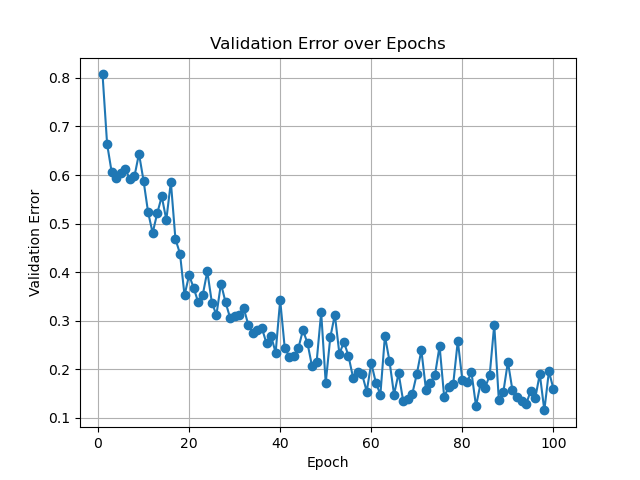
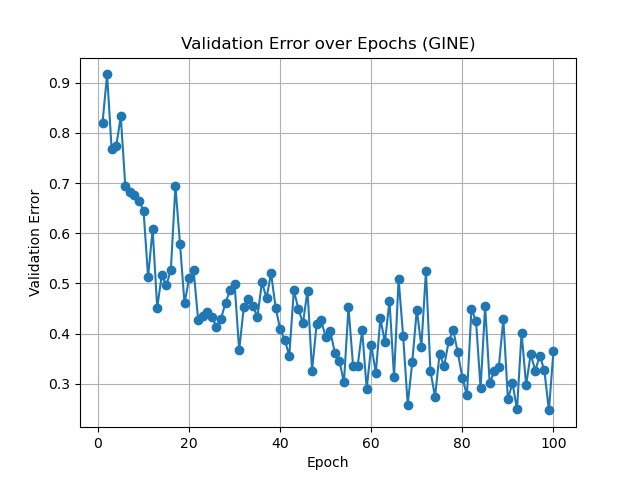
update model resuts

diff --git a/leiden_Sage_train.py b/leiden_Sage_train.py
@@ -1,11 +1,14 @@
+
 import os
+import random
+import json
+import glob
 import torch
+import numpy as np
 import torch.nn.functional as F
 import matplotlib.pyplot as plt
-import random
-import numpy as np
 from torch_geometric.loader import DataLoader
-from torch_geometric.nn import GINEConv,BatchNorm
+from torch_geometric.nn import SAGEConv, BatchNorm
 from datasets.scenes_cluster import ScenesGCNDataset
 
 # ------------------- Hyperparameters -------------------
@@ -42,59 +45,31 @@ val_loader   = DataLoader(val_ds, batch_size=BATCH_SIZE)
 test_loader  = DataLoader(test_ds, batch_size=BATCH_SIZE)
 
 # ------------------- Model Definition -------------------
-class GINENet(torch.nn.Module):
-    def __init__(self, in_feats, hidden_feats, num_classes, dropout=0.5):
+class SageNet(torch.nn.Module):
+    def __init__(self, in_feats, hidden_feats, num_classes, dropout=DROPOUT):
         super().__init__()
-        # Layer 1 MLP → GINEConv → BatchNorm
-        self.mlp1 = torch.nn.Sequential(
-            torch.nn.Linear(in_feats, hidden_feats),
-            torch.nn.ReLU(),
-            torch.nn.Linear(hidden_feats, hidden_feats),
-        )
-        self.conv1 = GINEConv(self.mlp1, train_eps=True, edge_dim=1)
+        # Three-layer GraphSAGE with BatchNorm
+        self.conv1 = SAGEConv(in_feats, hidden_feats)
         self.bn1   = BatchNorm(hidden_feats)
-
-        # Layer 2 MLP → GINEConv → BatchNorm
-        self.mlp2 = torch.nn.Sequential(
-            torch.nn.Linear(hidden_feats, hidden_feats),
-            torch.nn.ReLU(),
-            torch.nn.Linear(hidden_feats, hidden_feats),
-        )
-        self.conv2 = GINEConv(self.mlp2, train_eps=True, edge_dim=1)
+        self.conv2 = SAGEConv(hidden_feats, hidden_feats)
         self.bn2   = BatchNorm(hidden_feats)
-
-        # Layer 3 MLP → GINEConv (no norm)
-        self.mlp3 = torch.nn.Sequential(
-            torch.nn.Linear(hidden_feats, hidden_feats),
-            torch.nn.ReLU(),
-            torch.nn.Linear(hidden_feats, hidden_feats),
-        )
-        self.conv3 = GINEConv(self.mlp3, train_eps=True, edge_dim=1)
-
-        # Final classifier head
-        self.lin = torch.nn.Linear(hidden_feats, num_classes)
+        self.conv3 = SAGEConv(hidden_feats, num_classes)
         self.dropout = dropout
 
-    def forward(self, x, edge_index, edge_attr):
-        # edge_attr: [E,1]
+    def forward(self, x, edge_index, edge_attr=None):
         # Layer 1
-        h = self.conv1(x, edge_index, edge_attr)
+        h = self.conv1(x, edge_index)
         h = self.bn1(h)
         h = F.relu(h)
         h = F.dropout(h, p=self.dropout, training=self.training)
-
         # Layer 2
-        h = self.conv2(h, edge_index, edge_attr)
+        h = self.conv2(h, edge_index)
         h = self.bn2(h)
         h = F.relu(h)
         h = F.dropout(h, p=self.dropout, training=self.training)
-
-        # Layer 3
-        h = self.conv3(h, edge_index, edge_attr)
-        h = F.relu(h)
-
-        # Classify
-        return F.log_softmax(self.lin(h), dim=1)
+        # Layer 3 (classifier)
+        h = self.conv3(h, edge_index)
+        return F.log_softmax(h, dim=1)
 
 # ------------------- Training -------------------
 device = (
@@ -104,7 +79,7 @@ device = (
             if torch.cuda.is_available()
             else torch.device("cpu")
         )
-model = GINENet(
+model = SageNet(
     in_feats=dataset.num_node_features,
     hidden_feats=HIDDEN,
     num_classes=int(dataset.data.y.max().item()) + 1
@@ -119,7 +94,7 @@ for epoch in range(1, EPOCHS+1):
     for data in train_loader:
         data = data.to(device)
         optimizer.zero_grad()
-        out = model(data.x, data.edge_index, data.edge_attr)
+        out = model(data.x, data.edge_index)
         loss = F.nll_loss(out, data.y)
         loss.backward()
         optimizer.step()
@@ -132,7 +107,7 @@ for epoch in range(1, EPOCHS+1):
     with torch.no_grad():
         for data in val_loader:
             data = data.to(device)
-            out = model(data.x, data.edge_index, data.edge_attr)
+            out = model(data.x, data.edge_index)
             pred = out.argmax(dim=1)
             correct += int((pred == data.y).sum())
             tot += data.num_nodes
@@ -143,14 +118,15 @@ for epoch in range(1, EPOCHS+1):
         print(f"Epoch {epoch:03d}, Train Loss: {train_loss:.4f}, Val Err: {val_err:.4f}")
 
 # ------------------- Plot & Save -------------------
-os.makedirs(RESULT_DIR, exist_ok=True)
+if not os.path.exists(RESULT_DIR):
+    os.makedirs(RESULT_DIR)
 plt.figure()
 plt.plot(range(1, EPOCHS+1), val_errors, marker='o')
 plt.xlabel('Epoch')
 plt.ylabel('Validation Error')
-plt.title('Validation Error over Epochs (GINE)')
+plt.title('Validation Error over Epochs (GraphSAGE)')
 plt.grid(True)
-fig_path = os.path.join(RESULT_DIR, 'gine_val_error.png')
+fig_path = os.path.join(RESULT_DIR, 'sage_val_error.png')
 plt.savefig(fig_path)
 plt.close()
 print(f"Validation error plot saved to {fig_path}")
@@ -161,10 +137,10 @@ correct = tot = 0
 with torch.no_grad():
     for data in test_loader:
         data = data.to(device)
-        out = model(data.x, data.edge_index, data.edge_attr)
+        out = model(data.x, data.edge_index)
         pred = out.argmax(dim=1)
         correct += int((pred == data.y).sum())
         tot += data.num_nodes
 print(f"Test Accuracy: {correct / tot:.4f}")
 
-# Test Accuracy: 0.8135
+# Test Accuracy: 0.9362

diff --git a/leiden_Gcn_train.py b/leiden_Gcn_train.py
@@ -2,12 +2,8 @@ import os
 import torch
 import torch.nn.functional as F
 import matplotlib.pyplot as plt
-import glob
-import networkx as nx
-import igraph as ig
-import leidenalg
-import json
-
+import random
+import numpy as np
 from torch_geometric.loader import DataLoader
 from torch_geometric.nn import GCNConv,BatchNorm
 
@@ -21,9 +17,21 @@ LR = 0.01
 WEIGHT_DECAY = 5e-4
 EPOCHS = 100
 HIDDEN = 64
+DROPOUT = 0.5
 RESULT_DIR = './results'
+SEED = 12345
+
+# ------------------- Seed Control -------------------
+random.seed(SEED)
+np.random.seed(SEED)
+torch.manual_seed(SEED)
+torch.cuda.manual_seed_all(SEED)
+torch.backends.cudnn.deterministic = True
+torch.backends.cudnn.benchmark = False
 
 # ------------------- Prepare dataset -------------------
+
+torch.manual_seed(SEED)
 dataset = ScenesGCNDataset(root=ROOT, resolution=RESOLUTION)
 dataset = dataset.shuffle()
 n = len(dataset)
@@ -115,7 +123,7 @@ plt.figure()
 plt.plot(range(1, EPOCHS+1), val_errors, marker='o')
 plt.xlabel('Epoch')
 plt.ylabel('Validation Error')
-plt.title('Validation Error over Epochs')
+plt.title('Validation Error over Epochs (GCN)')
 plt.grid(True)
 fig_path = os.path.join(RESULT_DIR, 'pure_gcn_val_error.png')
 plt.savefig(fig_path)
@@ -133,3 +141,5 @@ with torch.no_grad():
         correct += int((pred == data.y).sum())
         tot += data.num_nodes
 print(f"Test Accuracy: {correct / tot:.4f}")
+
+# Test Accuracy: 0.9197

diff --git a/test_sem_reg.py b/test_sem_reg.py
@@ -1,0 +1,17 @@
+from adaptive_topo.topo import get_untopo_graph
+from config_util import MP3D_DATASET_PATH
+from sim_connect.hb import init_simulator
+
+test_id = "17DRP5sb8fy"
+file_path = f"{MP3D_DATASET_PATH}/{test_id}/{test_id}.glb"
+
+save_path = './results/'
+img_name = f"{test_id}_navpoints_topdown.png"
+
+sim = init_simulator(file_path)
+
+get_untopo_graph(sim=sim, output_path=f"{save_path}{img_name}",semantic_overlay = False)
+img_name = f"{test_id}_navpoints_topdown_semantic.png"
+get_untopo_graph(sim=sim, output_path=f"{save_path}{img_name}",semantic_overlay = False)
+
+sim.close()
